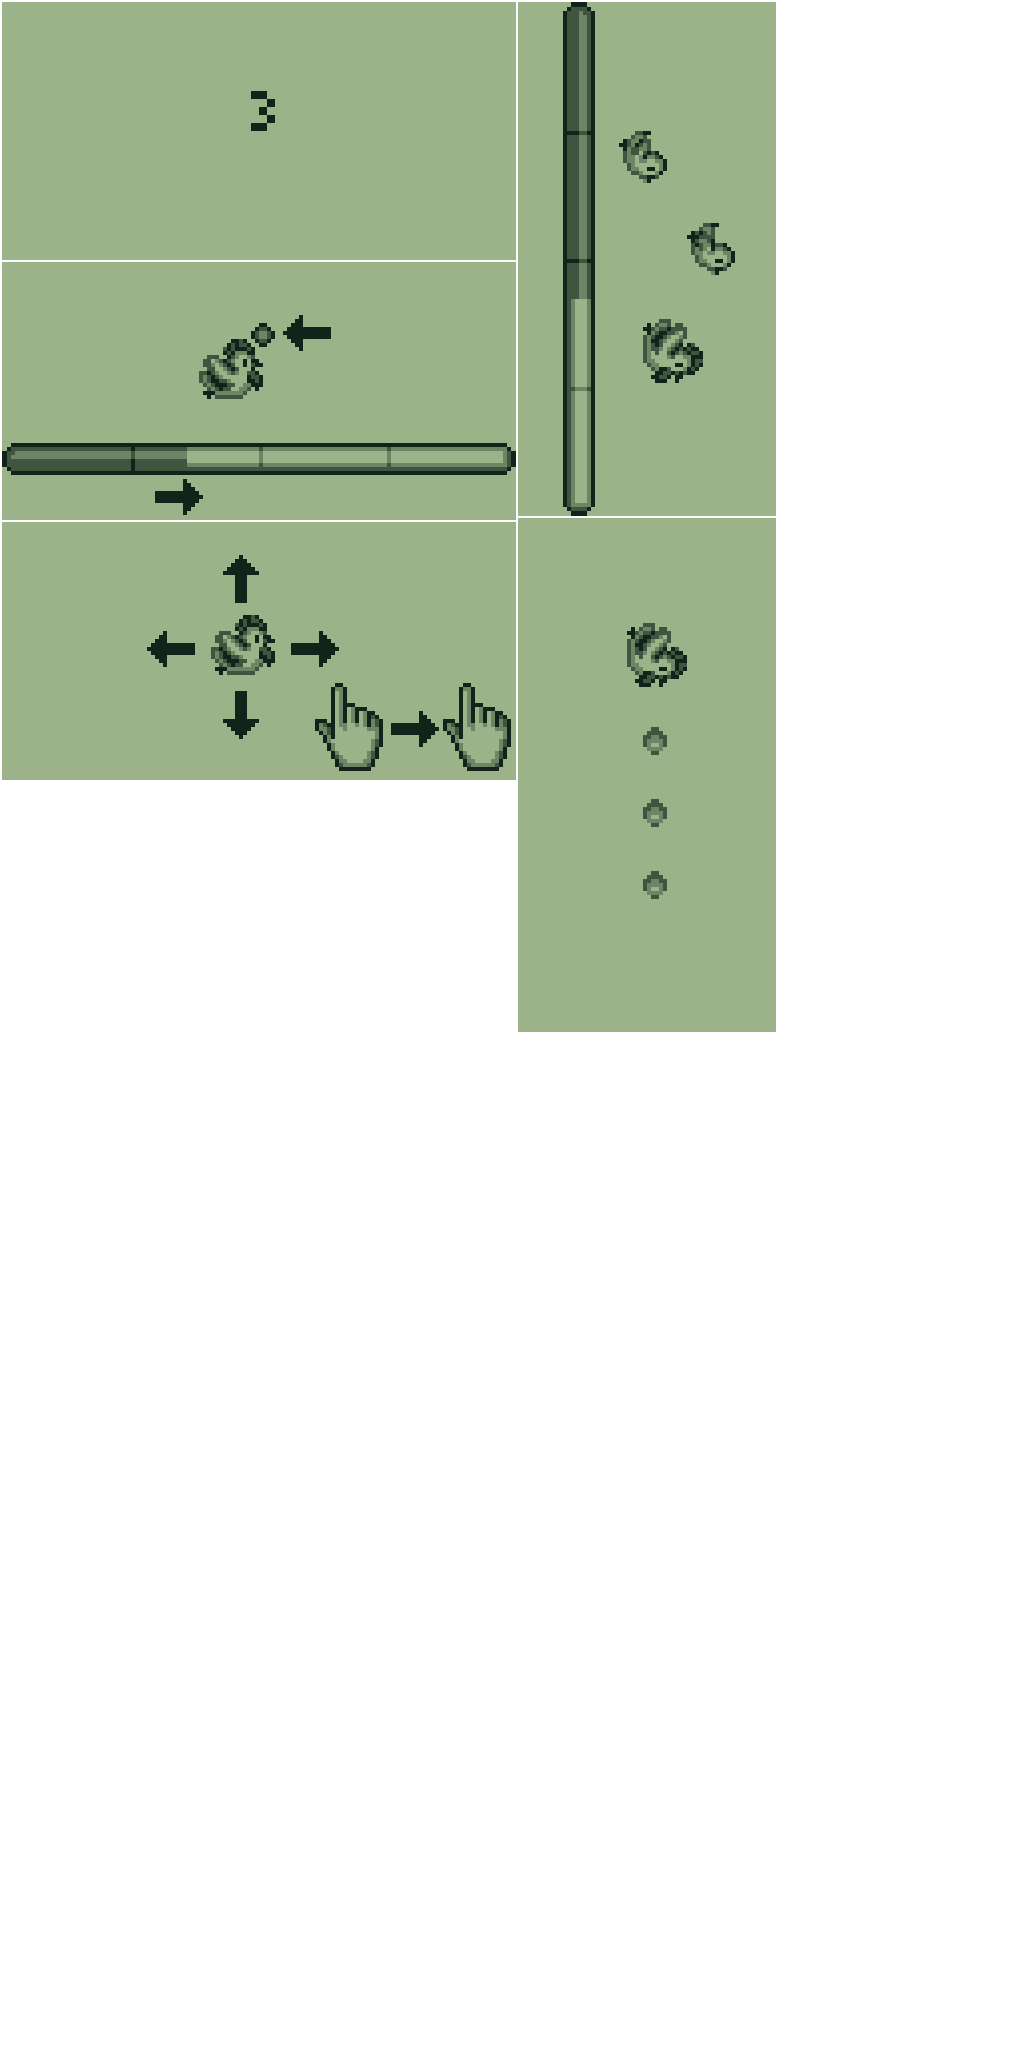
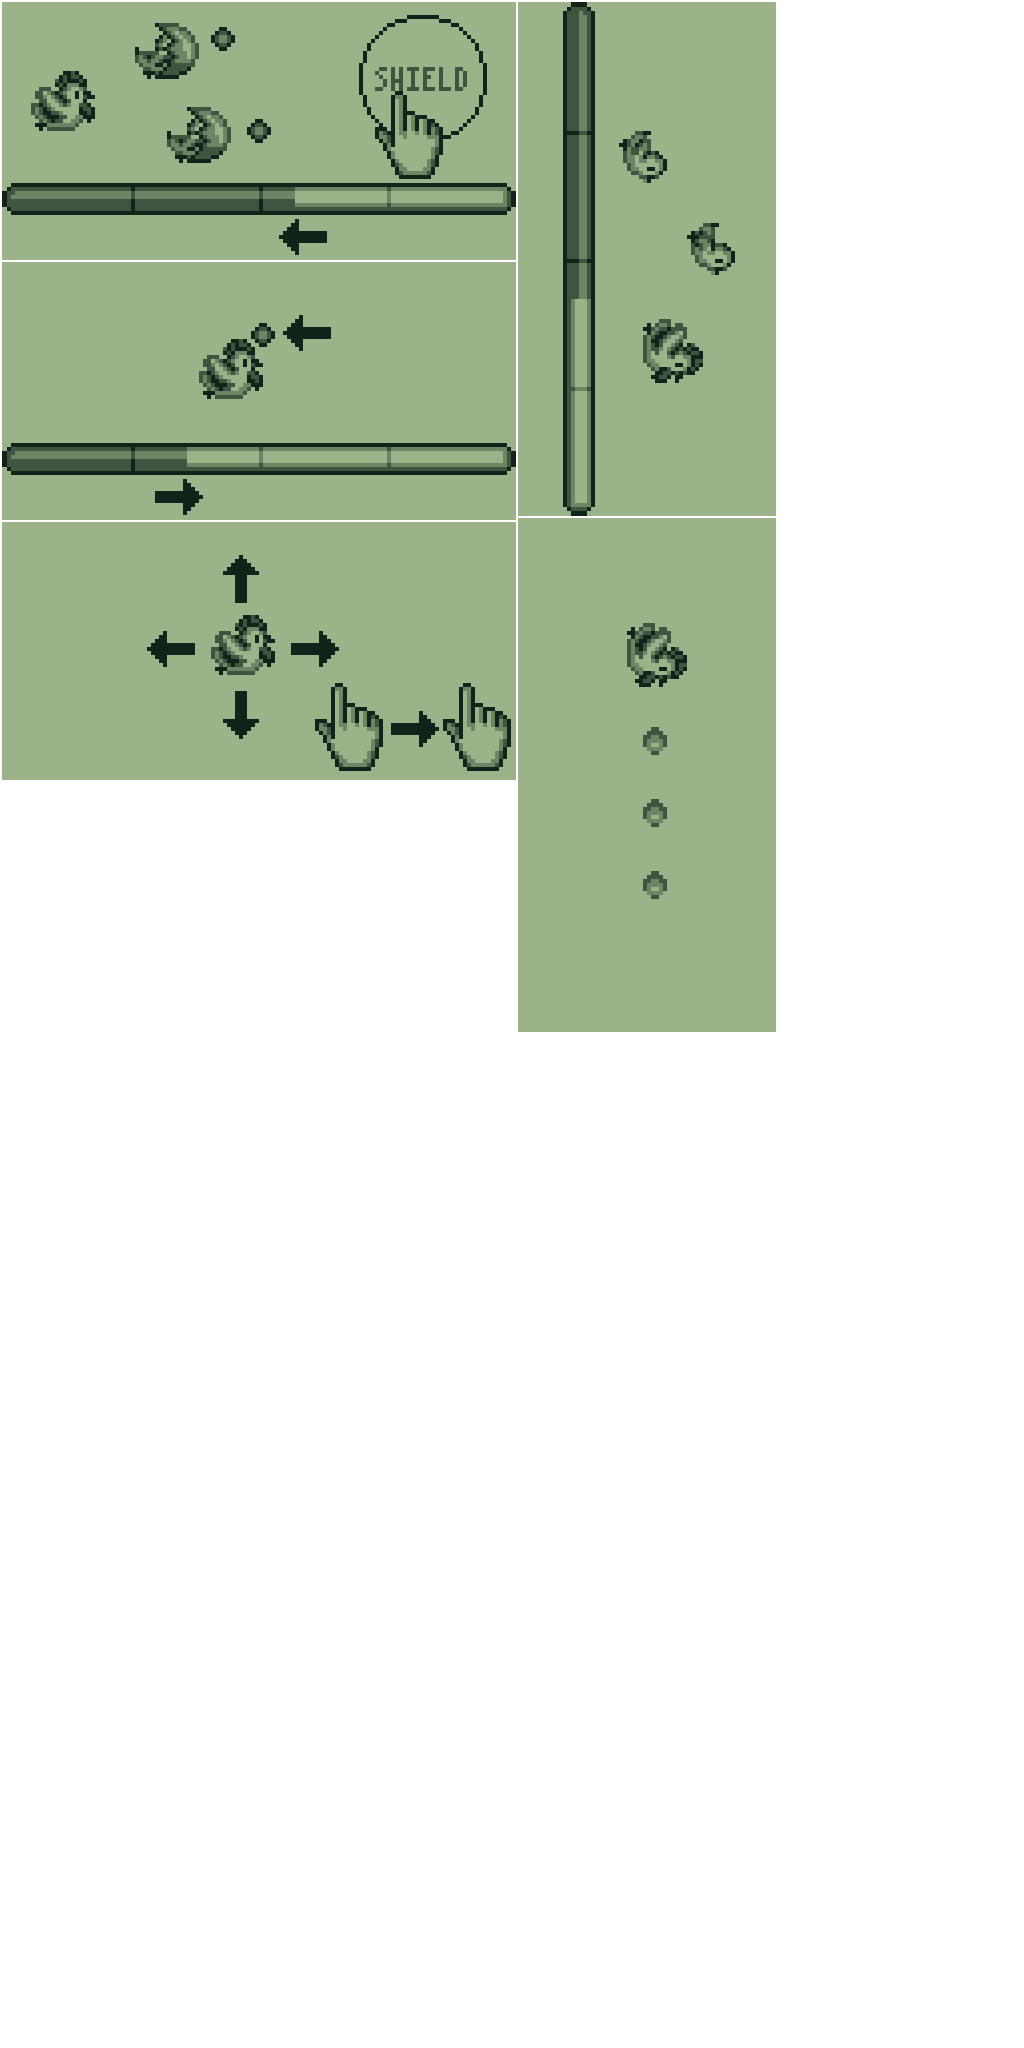
遊び方画面。シールドボタンの説明を追加。

Changed region(s): [[0.0, 0.0, 0.5, 0.125]]

diff --git a/Classes/AKLibrary/AKLabel.cpp b/Classes/AKLibrary/AKLabel.cpp
@@ -275,9 +275,6 @@ const std::string& AKLabel::getString() const
  */
 void AKLabel::setString(const std::string &label)
 {
-    // 文字列が表示可能文字数を超えている場合はエラー
-    AKAssert(AKStringSplitter::getStringLength(label.c_str()) <= m_length * m_line, "文字列が表示可能文字数を超えている:str.size()=%d, length=%d, line=%d", AKStringSplitter::getStringLength(label.c_str()), m_length, m_line);
-    
     // パラメータをメンバに設定する
     if (m_labelString != label) {
         m_labelString = label;

diff --git a/Classes/OtherScene/AKHowToPlayScene.cpp b/Classes/OtherScene/AKHowToPlayScene.cpp
@@ -104,7 +104,7 @@ static const float kAKHowToMsgPosBottomPoint = 105.0f;
 static const float kAKHowToImagePosBottomPoint = 220.0f;
 
 /// ページ数
-static const int kAKHowToPageCount = 4;
+static const int kAKHowToPageCount = 6;
 
 /// 前ページボタンのタグ
 static const unsigned int kAKHowToPrevTag = 0x01;
